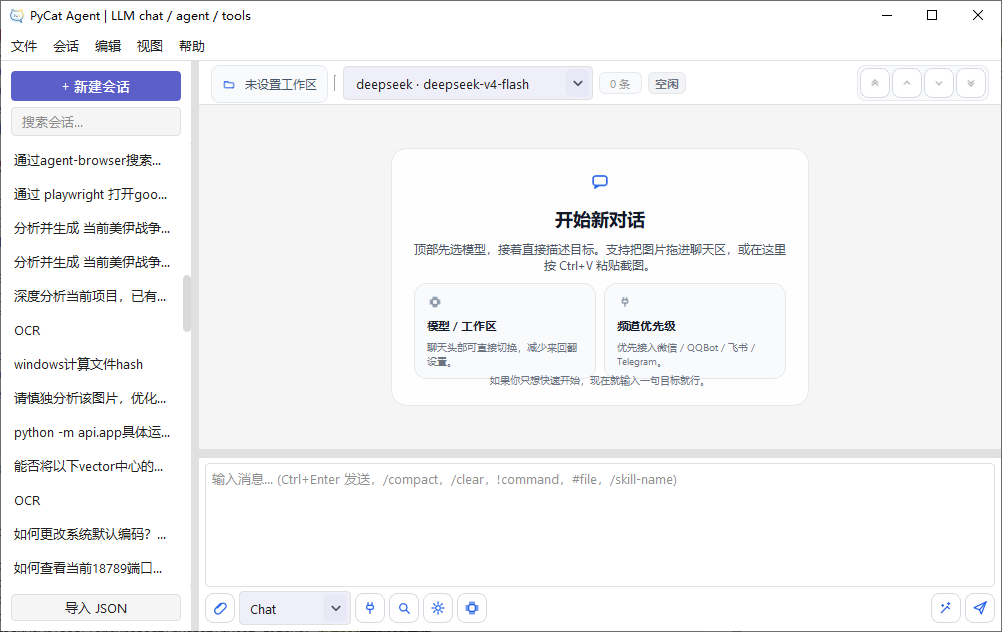
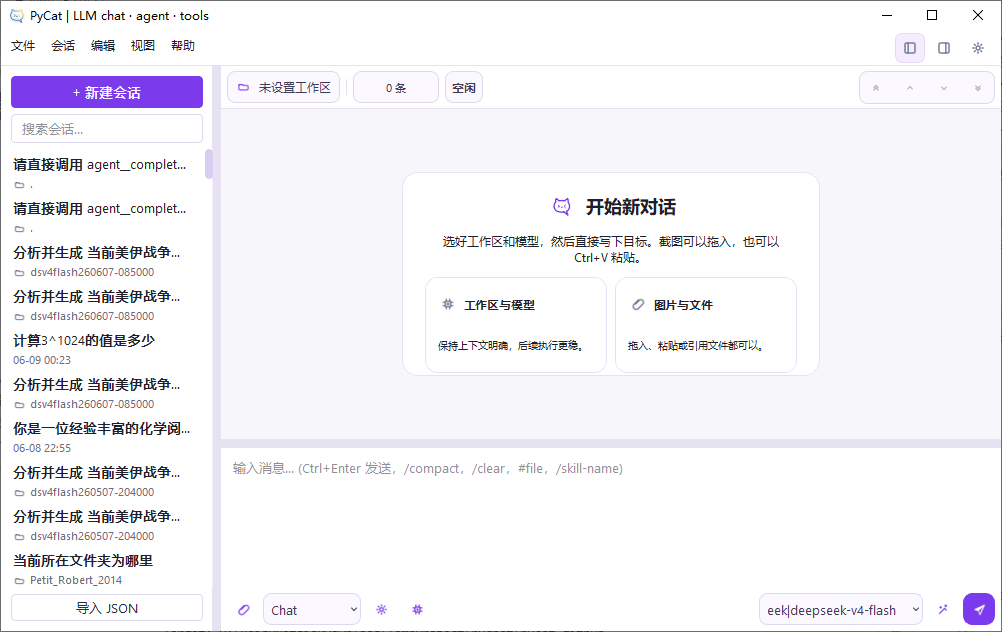
feat: 更新版本号至 v0.0.7，添加发布说明文档及相关资源

diff --git a/cli/__init__.py b/cli/__init__.py
@@ -1,3 +1,3 @@
 """Headless command-line interface for PyCat."""
 
-APP_VERSION = "0.0.5"
+APP_VERSION = "0.0.7"

diff --git a/docs/releases/v0.0.7.md b/docs/releases/v0.0.7.md
@@ -1,0 +1,192 @@
+# PyCat v0.0.7
+
+> Release notes for GitHub Release
+
+## Suggested release title
+
+`PyCat v0.0.7`
+
+## Suggested tag
+
+`v0.0.7`
+
+## Release body
+
+PyCat v0.0.7 聚焦 **归档优先的工具结果处理、内容视图协议、Agent 运行时拆分、技能系统增强、UI 与样式体系整理** 五个方向。该版本延续 v0.0.6 对入口和打包边界的收敛，进一步把长内容、工具调用、子 Agent、技能加载和桌面界面反馈纳入更稳定的运行时结构。
+
+### 本版本定位
+
+v0.0.7 是一个偏运行时内核和交互体验的版本，重点解决 Agent 在真实长任务中暴露出的几个问题：
+
+- 工具输出过长时，不能只依赖截断文本或一次性写入消息历史。
+- 模型可见内容、用户可查看全文、后台可压缩摘要，需要有统一的视图协议。
+- 子 Agent、工具循环和任务追踪需要从大型任务执行类中拆出更清晰的边界。
+- 技能系统需要支持项目技能、全局技能和外部只读技能，并暴露资源读取能力。
+- 桌面 UI 需要更紧凑、更一致地展示工具调用、任务状态、产物和设置页面。
+
+## Highlights
+
+- **归档优先的工具结果处理**：新增 `ToolCallArchiveService`，用会话归档保存重要或超长工具输出，再按策略生成模型可见视图，降低上下文膨胀和历史污染。
+- **内容视图协议**：新增 `core/content/view_protocol.py`，统一 `[full]`、`[line:x-y]`、`[summary:*]` 等视图标签，并记录 exact / derived / pending 等精确度语义。
+- **会话归档存储**：新增 `SessionArchiveStore` 和 `ArchiveViewService`，支持原文、摘要、主题视图、多级压缩结果和归档元数据的可恢复管理。
+- **Agent 运行时拆分**：新增 `AgentRuntime`、`RuntimePolicyFactory`、`agent_loop`、`tool_loop`、`trace` 等模块，将策略构建、工具循环、子 Agent 运行和追踪事件从单一任务类中拆分出来。
+- **技能系统增强**：技能加载支持外部只读技能目录，技能元数据中加入来源范围和只读标记，并提供资源列举、资源读取和执行可用性检查。
+- **产物与任务 UI 优化**：统计面板新增 Artifact 列表区域，任务卡片、工具栏、输入区、侧边栏、设置页样式进一步统一。
+
+## 从 v0.0.6 以来的主要变更
+
+### 新增
+
+- **内容视图协议**：新增 `ArchivePolicy`、`ToolResultViewPolicy`、`ContentViewLabel`、`ContentExactness` 等基础类型。
+- **工具调用归档服务**：新增 `core/tools/tool_call_archive.py`，按工具类型决定 inline、archive、full view、line view 或 summary view。
+- **归档视图服务**：新增 `core/context/archive_view_service.py`，支持按需生成摘要视图、主题视图，并回写会话消息中的归档元数据。
+- **会话归档存储**：新增 `core/context/archive_store.py`，保存工具输出和长内容原文，支持 token 估算、内容摘要状态、视图写入和归档记录读取。
+- **上下文维护模块**：新增 `core/context/items.py`、`core/context/maintenance.py`、`core/context/capability_compression.py`，为上下文压缩、候选记忆和归档维护提供独立模块。
+- **Agent 运行时模块**：新增 `core/runtime/agent_runtime.py` 和 `core/runtime/policy_factory.py`，统一 GUI、CLI、通道和能力调用的运行策略构建。
+- **任务循环拆分**：新增 `core/task/agent_loop.py`、`core/task/tool_loop.py`、`core/task/subtask.py`、`core/task/stop_policy.py`、`core/task/trace.py`、`core/task/control_messages.py`。
+- **内容工具**：新增 `core/tools/system/content_tools.py`，用于列举和读取归档内容视图。
+- **技能资源读取能力**：技能管理器新增资源列表、资源路径解析和分段读取接口，便于模型按需读取技能附加资料。
+- **UI 工具组件**：新增 `ui/utils/theme.py`、`ui/widgets/themed_line_edit.py`，配合设置页和输入控件统一主题行为。
+
+### 优化
+
+- **模型可见上下文更克制**：长工具结果优先进入归档，消息中只保留精确视图、摘要视图或引用信息。
+- **工具结果元数据更完整**：工具调用结果记录 view label、view kind、exactness、digest、token estimate、content id 和 archive record 等信息。
+- **上下文压缩输出更结构化**：压缩结果支持 brief / detailed summary、entities、claims、memory candidates 等结构字段。
+- **子 Agent 追踪更清晰**：子 Agent 运行过程可记录 prompt、thinking、完成状态、失败状态和取消状态。
+- **技能目录语义更明确**：技能来源区分 project、global、external；外部技能默认为只读，避免设置页误修改。
+- **搜索依赖更新**：`duckduckgo-search` 迁移为 `ddgs`，减少旧包兼容风险。
+- **设置页面样式统一**：能力、渠道、模型、MCP、搜索、技能等页面使用更一致的 detail card、hover、状态色和表单控件样式。
+- **聊天界面更紧凑**：输入工具栏、发送按钮、会话列表、消息卡片和工具调用卡片布局进一步收紧。
+- **Artifact 展示更直接**：统计面板新增产物列表，支持从右侧面板快速打开产物文件。
+
+### 修复
+
+- 修复超长工具结果直接进入对话历史导致上下文膨胀的问题。
+- 修复工具结果视图缺少精确度标识，模型难以区分全文、行范围、摘要和待生成视图的问题。
+- 修复归档摘要状态与会话消息元数据不同步的问题。
+- 修复部分任务状态、工具卡片和设置页控件在深色/浅色主题下显示不一致的问题。
+- 修复 `qtawesome` 图标来源在打包环境中带来的依赖和可见性不确定性。
+- 修复技能目录中外部只读技能与项目技能语义混在一起的问题。
+
+## 架构说明
+
+### 归档优先工具结果
+
+```text
+tool raw result
+  -> ToolCallArchiveService
+  -> SessionArchiveStore
+  -> ToolResultViewService / ArchiveViewService
+  -> assistant.tool_calls[].result + metadata
+  -> model-visible exact/summary/reference view
+```
+
+本版本将工具输出的“原文保存”和“模型可见展示”拆成两个层次：
+
+- 原文由 `SessionArchiveStore` 保存，作为可恢复事实来源。
+- 视图由 `ContentViewLabel` 描述，例如全文、行范围、字符范围或摘要。
+- 摘要和主题视图可以异步生成，并通过归档元数据回写到会话消息。
+- 模型请求构建时根据视图策略注入更短、更稳定的上下文。
+
+### Agent 运行时拆分
+
+```text
+RuntimePolicyFactory
+  -> RunPolicy
+  -> AgentRuntime / TurnEngine
+  -> ToolCallCoordinator
+  -> child AgentRunContext
+  -> trace events
+```
+
+当前规则是：
+
+- `RuntimePolicyFactory` 负责从 app settings、conversation settings、mode 和 skill invocation 中合成最终 `RunPolicy`。
+- `ToolCallCoordinator` 负责工具循环、工具结果归档、子 Agent 调度和下一轮策略切换。
+- `AgentRuntime` 为能力调用、技能调用和非 GUI 入口提供共享运行时外壳。
+- `trace` 模块负责把子 Agent 运行状态附加到工具调用与 UI 事件中。
+
+### 技能系统
+
+技能现在可以来自：
+
+```text
+.pycat/skills/          # project skills
+~/.PyCat/skills/        # global skills
+external read-only dirs # user-level external skills
+```
+
+技能元数据新增 `source_scope` 和 `read_only`，并支持：
+
+- 按技能名读取入口内容。
+- 列举技能资源文件。
+- 分段读取技能资源。
+- 解析技能声明的执行模式、工具类别和具体工具。
+- 检查当前工具暴露状态是否满足技能执行需求。
+
+## Assets
+
+### Windows x64
+
+- **File**: `pycat-0.0.7-windows-x64.zip`
+- **Size**: `待定`
+- **SHA256**: `待定`
+
+压缩包内主要入口：
+
+- `pycat.exe`：GUI 桌面应用入口。
+- `pycat-cli.exe`：命令行入口。
+
+## How to use
+
+1. 下载 `pycat-0.0.7-windows-x64.zip`。
+2. 解压到本地目录。
+3. 双击运行 `pycat.exe` 启动 GUI。
+4. 在终端中运行 CLI：
+
+```text
+pycat-cli.exe --version
+pycat-cli.exe list modes
+pycat-cli.exe list providers
+pycat-cli.exe list tools
+pycat-cli.exe run "你好，介绍一下当前能力"
+```
+
+源码开发环境中：
+
+```text
+python main.py
+python main_cli.py --version
+python main_cli.py list modes
+```
+
+## Notes
+
+- 本版本的重点是运行时与工具结果处理，不改变 v0.0.6 确立的 GUI / CLI 双入口规则。
+- 工具结果可能以归档引用或摘要视图显示；需要原文时，可通过内容工具或 UI 入口读取对应归档内容。
+- 摘要视图属于派生内容，发布或调试时应以归档原文作为最终事实来源。
+- 外部技能目录默认按只读处理，适合引用共享技能包，但不建议由 PyCat 设置页直接修改。
+- 当前 Windows 资源未进行代码签名，首次运行如出现 SmartScreen 提示属于常见现象。
+
+## Validation
+
+发布前建议通过以下验证：
+
+- `python -m py_compile main.py main_cli.py cli\main.py cli\executor.py cli\output.py`
+- `python -m py_compile core\content\view_protocol.py core\tools\tool_call_archive.py core\context\archive_store.py core\context\archive_view_service.py`
+- `python -m unittest discover -s tests -p test_archive_store.py`
+- `python -m unittest discover -s tests -p test_context_maintenance.py`
+- `python -m unittest discover -s tests -p test_runtime_refactor.py`
+- `python -m unittest discover -s tests -p test_skill_runtime.py`
+- `python -m unittest discover -s tests -p test_channel_runtime.py`
+
+## License
+
+本项目采用 **GNU Affero General Public License v3.0 (AGPL-3.0)**。
+
+允许商业使用，但必须完整遵守 AGPL-3.0 的相关义务。完整协议请见仓库中的 `LICENSE` 文件。
+
+## Thanks
+
+欢迎提交 Issue 与 Pull Request，一起把 PyCat 打磨成更顺手的桌面 AI 工作台。
